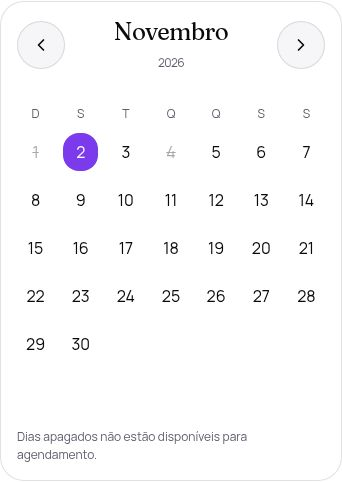
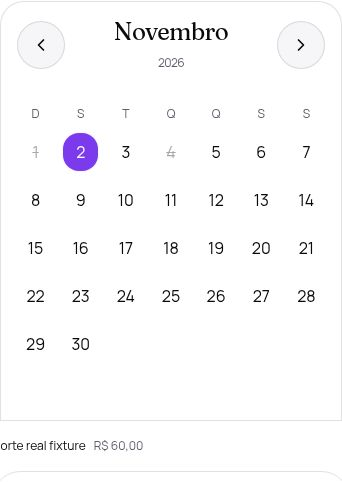
fix(booking): place available times beside the calendar

Changed region(s): [[0.0, 0.8714, 0.731, 0.9647], [0.0585, 0.9959, 0.9357, 1.0], [0.9942, 0.8714, 1.0, 0.9647]]

diff --git a/src/components/booking/live-booking.tsx b/src/components/booking/live-booking.tsx
@@ -29,10 +29,13 @@ export default function LiveBooking(){
    </fieldset>}
    {s.step===2&&<fieldset aria-label="Serviços"><legend>Escolha os serviços</legend>{s.services.map(service=><label className="choice" key={service.id}><input type="checkbox" checked={s.selectedServices.some(x=>x.id===service.id)} onChange={()=>s.toggleService(service)}/><span><strong>{service.name}</strong><small>{service.duration_minutes} min · {formatCurrency(Number(service.price))}</small></span></label>)}{!s.services.length&&<p>Nenhum serviço disponível. Fale com a barbearia.</p>}</fieldset>}
    {s.step===3&&<fieldset aria-label="Horários"><legend>Data e horário</legend>
+    <div className="booking-date-layout">
     <BookingCalendar value={s.selectedDate} barberId={s.selectedBarberId} serviceIds={s.selectedServices.map(x=>x.id)} onChange={date=>{if(date===s.selectedDate)void s.fetchAvailability();else s.setSelectedDate(date)}} onAvailability={onCalendarAvailability}/>
+    <section className="booking-time-panel" aria-label="Horários disponíveis"><h2>Horários disponíveis</h2><p>{s.selectedDate.split('-').reverse().join('/')}</p>
     <AnimatePresence mode="wait" initial={false}>{s.isLoadingSlots?<motion.p key="loading" role="status" initial={{opacity:0}} animate={{opacity:1}} exit={{opacity:0}} transition={{duration:reduced?0:.15}}>Consultando horários…</motion.p>:<motion.div key={s.selectedDate} className="time-choices" initial={{opacity:0,y:reduced?0:8}} animate={{opacity:1,y:0}} exit={{opacity:0,y:reduced?0:-8}} transition={{duration:reduced?0:.22}}>{calendarAvailable&&s.availableSlots.map(slot=><motion.button type="button" whileTap={reduced?undefined:{scale:.96}} aria-pressed={s.selectedSlot?.start_time===slot.start_time&&s.selectedSlot?.barber_id===slot.barber_id} key={slot.barber_id+slot.start_time} onClick={()=>s.setSelectedSlot(slot)}>{time(slot.start_time)}{s.selectedBarber?.id===null&&(' · '+(s.barbers.find(b=>b.id===slot.barber_id)?.name || 'Profissional disponível'))}</motion.button>)}</motion.div>}</AnimatePresence>
     {!s.isLoadingSlots&&!s.availableSlots.length&&<p role="status">Não há horários disponíveis nesta data.</p>}
     <p>Horários de Brasília · America/Sao_Paulo.</p>
+    </section></div>
    </fieldset>}
    {s.step===4&&<form id="booking-confirmation" onSubmit={e=>{e.preventDefault();void s.handleConfirmBooking()}}>
     <h2>Resumo do agendamento</h2><dl className="booking-summary"><dt>Serviço</dt><dd>{s.selectedServices.map(x=>x.name).join(', ')}</dd><dt>Profissional</dt><dd>{s.barbers.find(b=>b.id===s.selectedSlot?.barber_id)?.name || s.selectedBarber?.name}</dd><dt>Quando</dt><dd>{s.selectedDate.split('-').reverse().join('/')} às {s.selectedSlot&&time(s.selectedSlot.start_time)}</dd><dt>Valor</dt><dd>{formatCurrency(s.totalPrice)}</dd><dt>Sinal ({s.depositPct}%)</dt><dd>{formatCurrency(s.depositAmount)}</dd></dl>

diff --git a/src/styles/landing.css b/src/styles/landing.css
@@ -1349,4 +1349,12 @@ html { scroll-padding-top: calc(var(--header-h) + 16px); }
 .booking-calendar-grid button:disabled { text-decoration: line-through; }
 .booking-calendar-note, .booking-calendar-error { margin-top: 16px; font-size: 12px; line-height: 1.5; color: var(--text-muted); }
 .booking-calendar-error .button-secondary { margin-top: 16px; }
+.booking-date-layout { display:grid; grid-template-columns:minmax(0,448px) minmax(0,1fr); gap:32px; margin-top:24px; align-items:start; }
+.booking-date-layout .booking-calendar { width:100%; margin:0; }
+.booking-time-panel { min-width:0; padding-top:24px; }
+.booking-shell .booking-time-panel h2 { font-size:24px; margin:0 0 16px; }
+.booking-time-panel > p { font-size:14px; color:var(--text-muted); }
+.booking-time-panel .time-choices { display:grid; grid-template-columns:repeat(2,minmax(0,1fr)); gap:16px; }
+.booking-time-panel .time-choices button { padding:16px; min-width:0; overflow-wrap:anywhere; }
+@media(max-width:767px){.booking-date-layout{grid-template-columns:minmax(0,1fr);gap:24px}.booking-time-panel{padding-top:0}}
 @media (max-width: 767px) { .booking-calendar { padding: 16px; } .booking-calendar-grid button { min-height: 40px; } .booking-calendar-grid[role="group"]{grid-auto-rows:40px;min-height:280px;} }

diff --git a/docs/booking-calendar/README.md b/docs/booking-calendar/README.md
@@ -15,3 +15,7 @@ Testes em scripts/qa-live-booking.mjs: desktop e celular, fusos Asia/Tokyo e Ame
 Capturas: [desktop](1440-calendar.jpg) e [celular](390-calendar.jpg).
 
 Branch feat-calendario-agendamento para revisão visual. Não foi realizado deploy manual, merge na master ou mudança no Supabase.
+
+## Horários ao lado do calendário
+
+O calendário e a lista de horários agora usam duas colunas a partir de 768px, separadas por 32px. No celular, ficam em coluna, com intervalo de 24px. A lista informa a data selecionada e mantém as animações, bloqueios e chamadas reais existentes. Validação em 1440px, 820px e 390px, sem overflow e com pré-reserva concluída em backend interceptado de teste. Capturas: [desktop](1440-layout.jpg), [tablet](820-layout.jpg), [celular](390-layout.jpg). Merge automático desta mudança autorizado pelo usuário.
